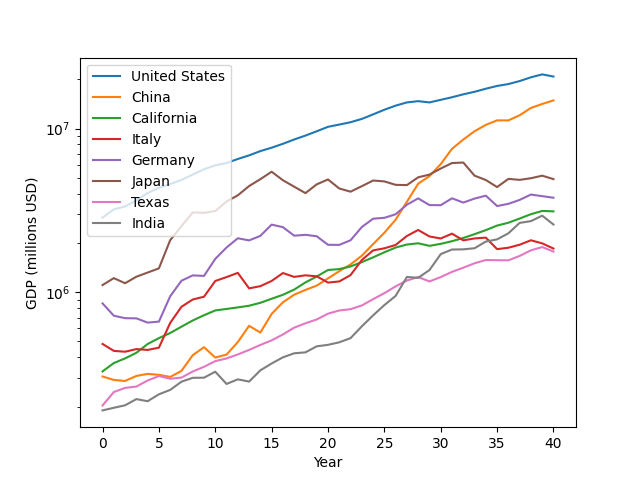
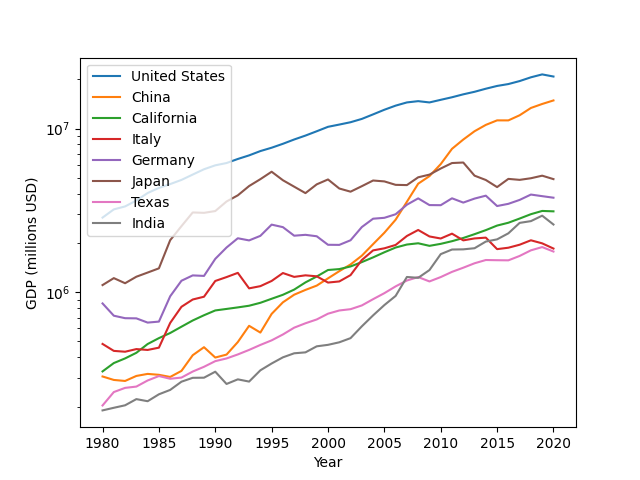
get x axis working properly

diff --git a/gdpparser.py b/gdpparser.py
@@ -166,9 +166,7 @@ def get_data_year(year, sort=True):
 def get_data_year_range(start_year, end_year):
     year = start_year
     dataframes = []
-    country_list = get_data_year(year, False)[['Country']]
-    country_list.columns = ['Year']
-    dataframes.append(country_list)
+    dataframes.append(get_data_year(year, False)[['Country']])
 
     for _ in range(end_year - start_year + 1):
         data = get_data_year(year, False)[['GDP']]
@@ -179,22 +177,23 @@ def get_data_year_range(start_year, end_year):
     data = pd.concat(dataframes, axis=1)
     data.set_index('Year', inplace=True)
     data = data.transpose()
-    data = data.reset_index()
 
     return data
 
 def save_data():
     data = get_data_year_range(1980, 2020)
-    data.to_csv('data/extracted/statecountry_1980-2020.csv', index=False)
+    data.to_csv('data/extracted/statecountry_1980-2020.csv')
 
 def make_charts():
     data = pd.read_csv('data/extracted/statecountry_1980-2020.csv')
+    data.set_index('Unnamed: 0', inplace=True)
     column = data[['United States', 'China', 'California', 'Italy', 'Germany', 'Japan', 'Texas', 'India']]
     column.plot()
     plt.yscale('log')
     plt.xlabel('Year')
     plt.ylabel('GDP (millions USD)')
     plt.savefig('out/charts/top_economies.png')
+    # plt.show()
 
 def download_new(year):
     if year < 2019:
